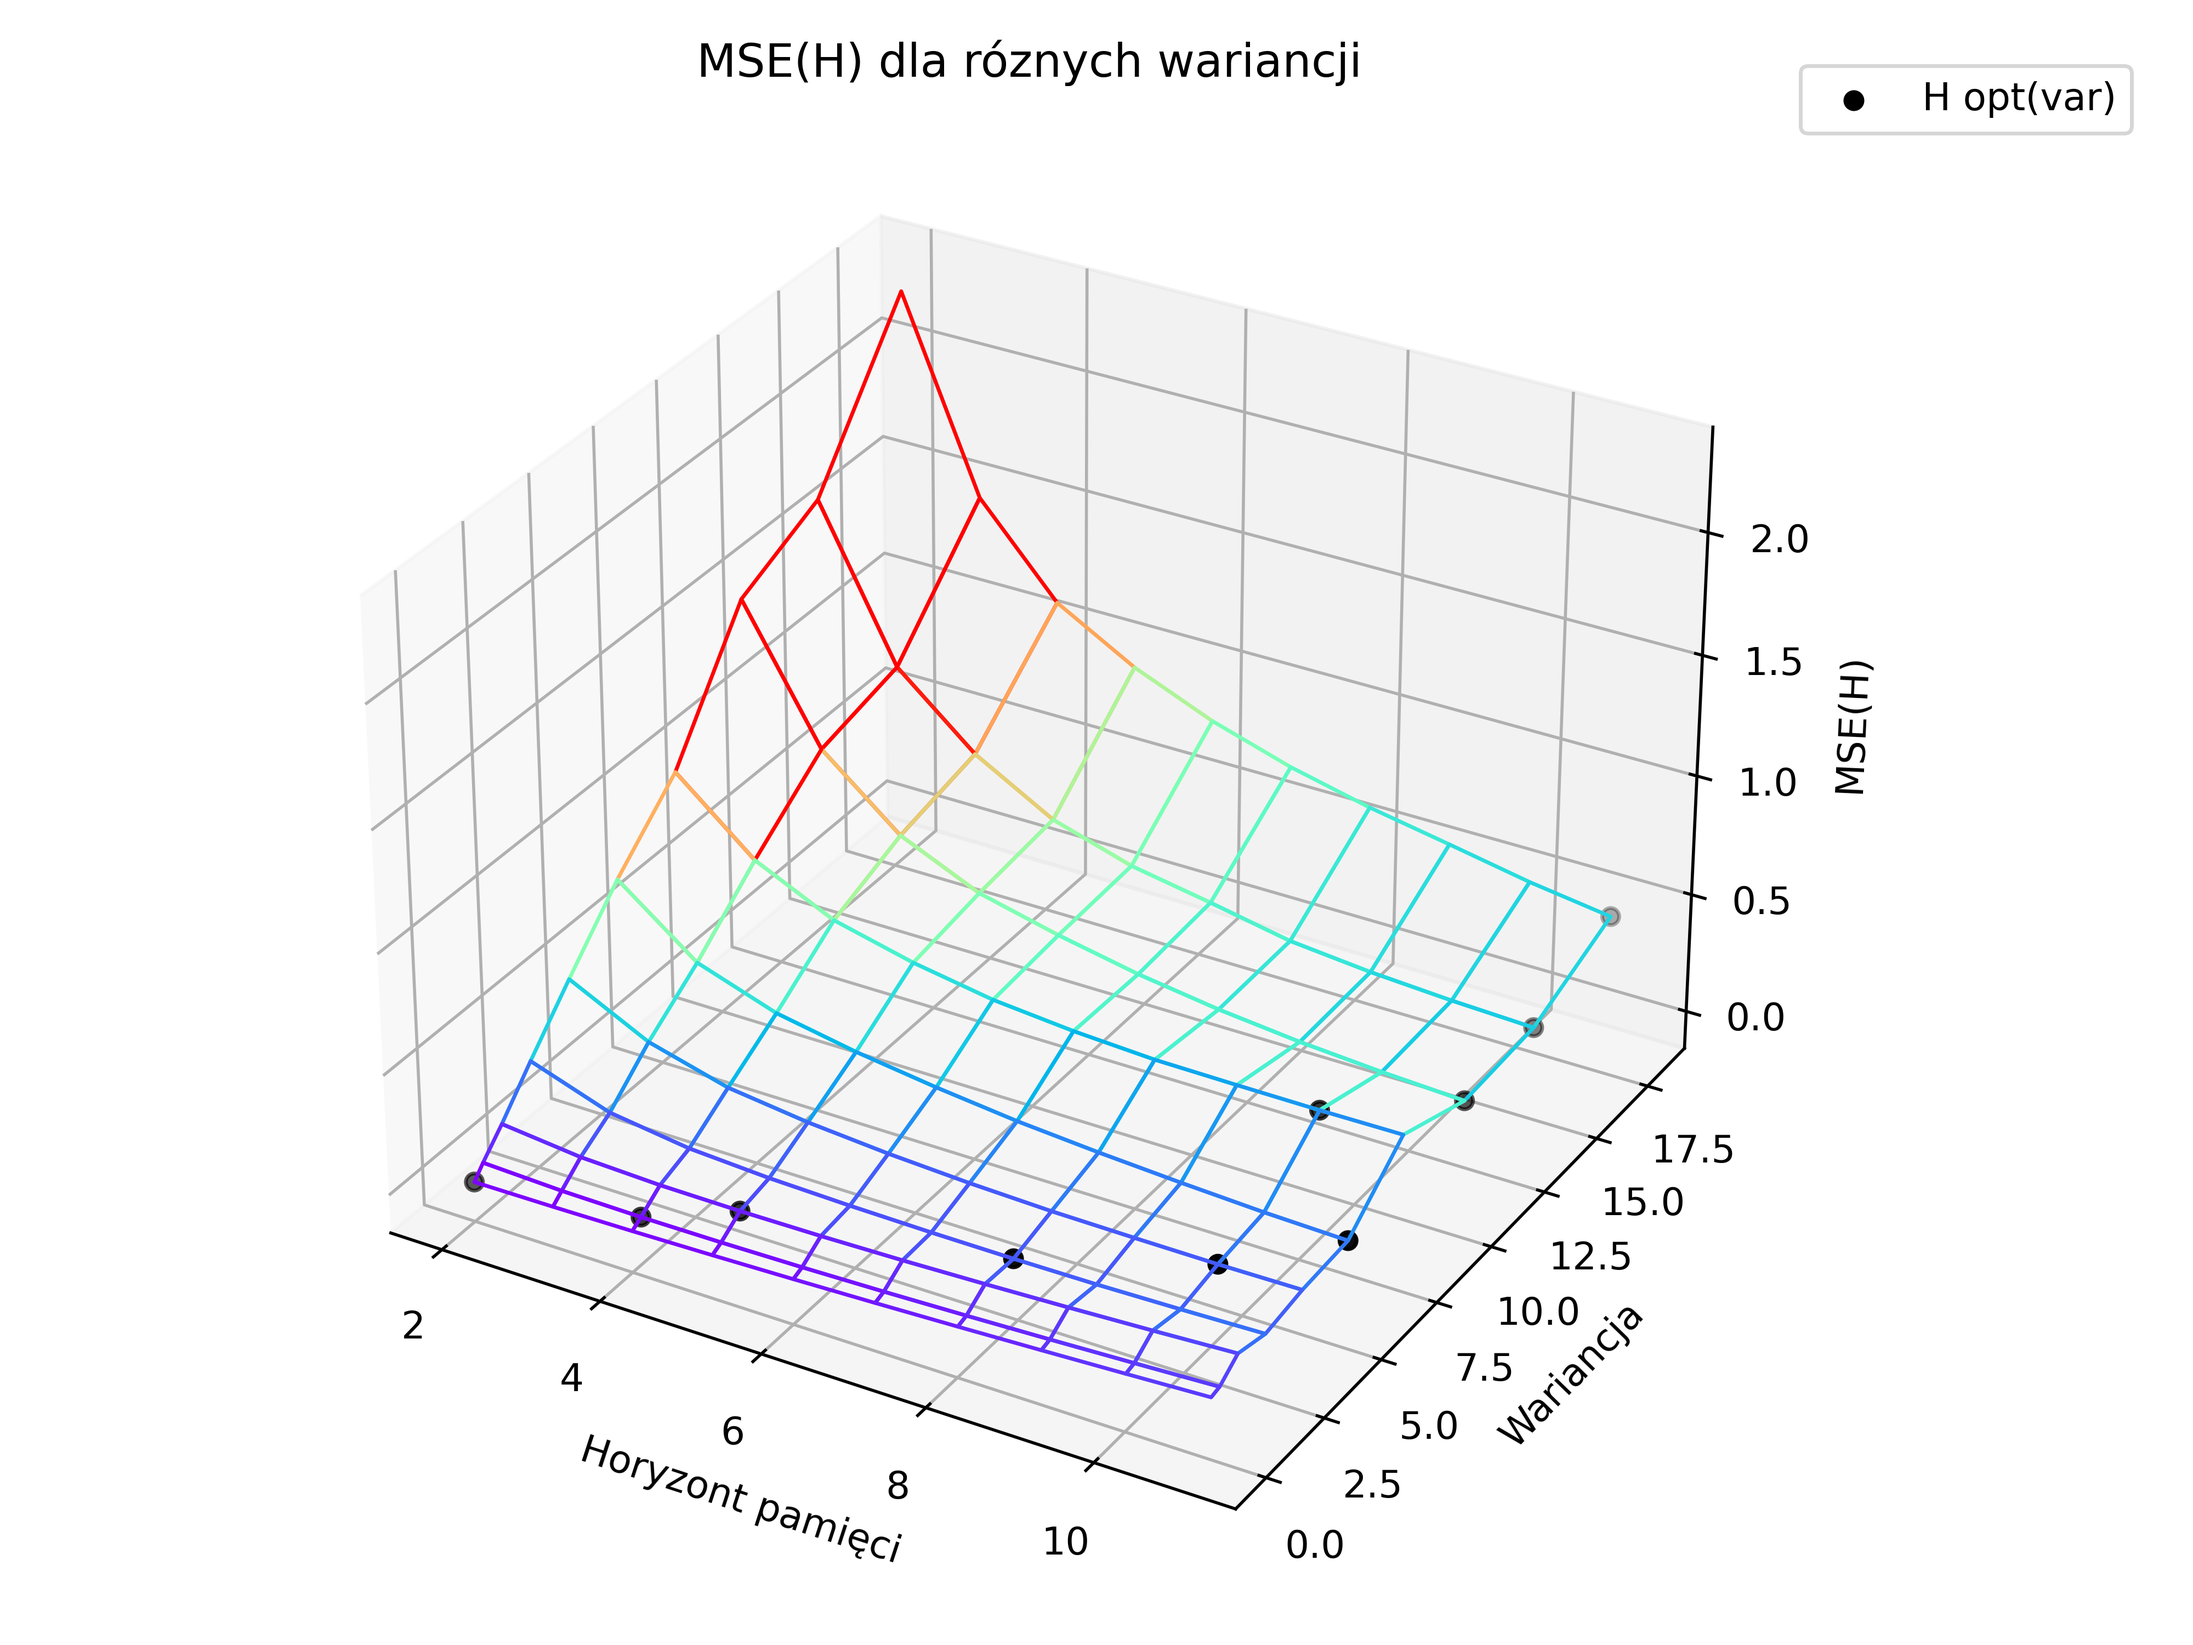
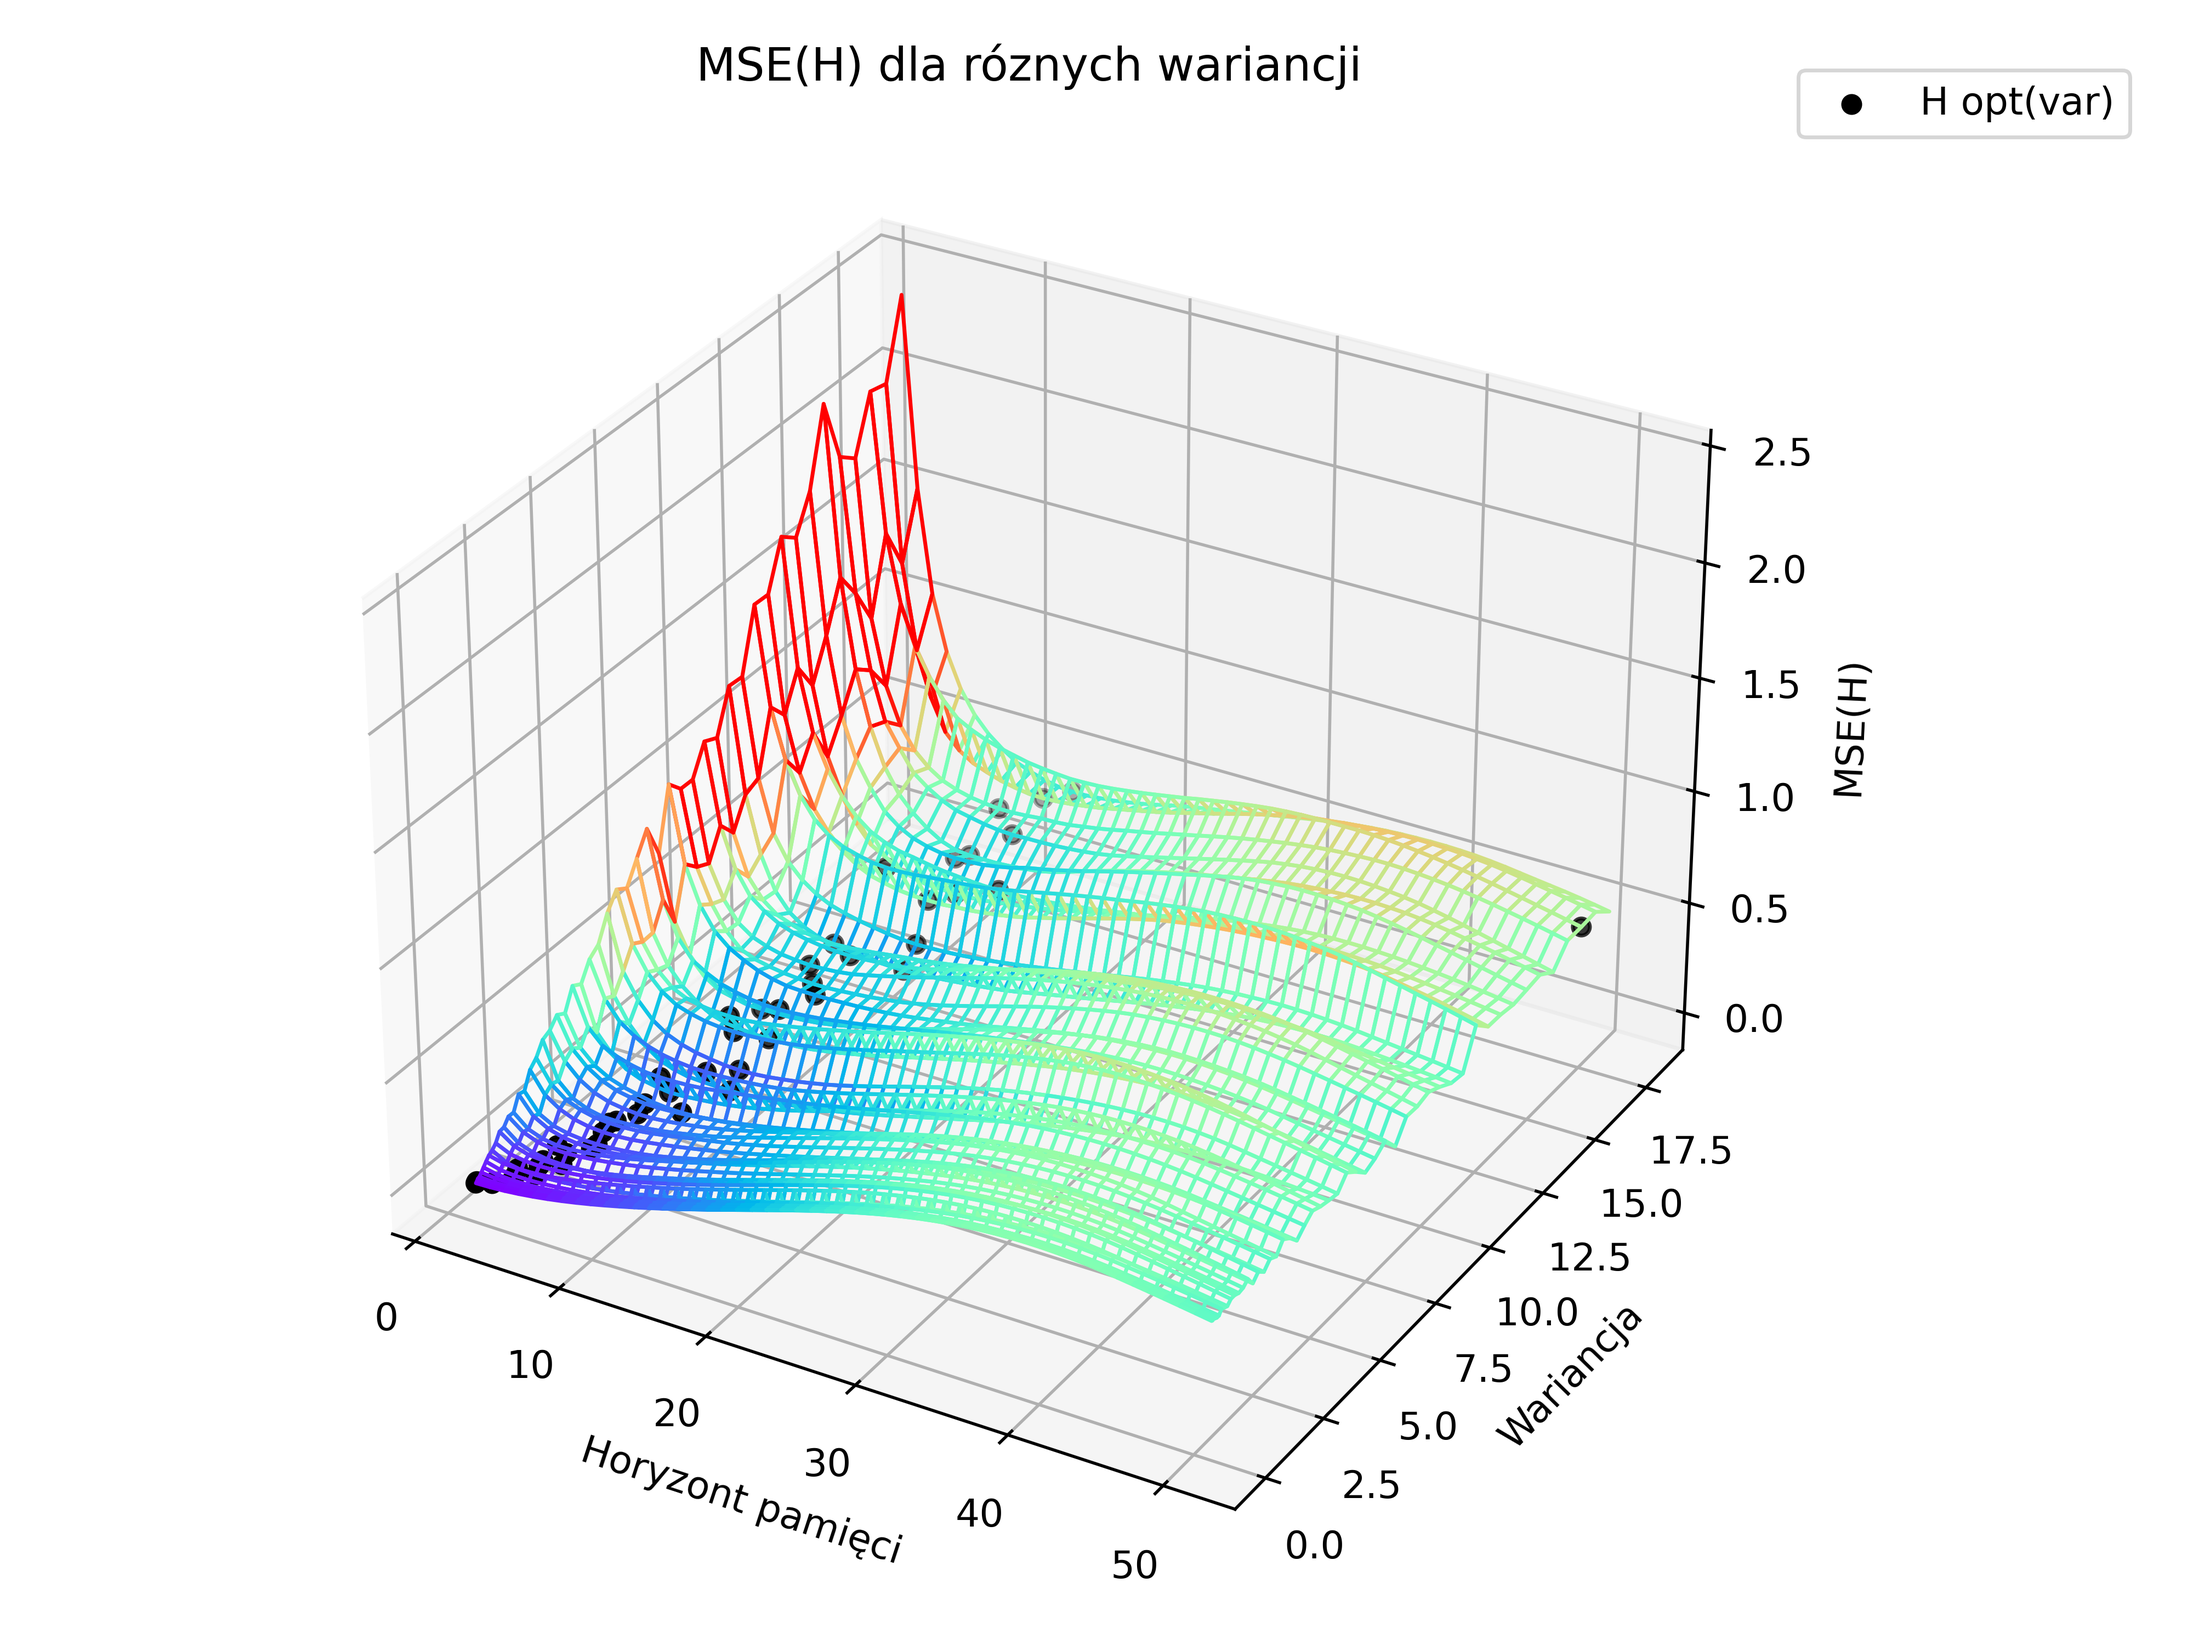
plot update

diff --git a/adaptacyjne/projekt1/wave.py b/adaptacyjne/projekt1/wave.py
@@ -21,7 +21,6 @@ def calculate(N, max, triangular_signal):
         # do zmiany?
         if current_c == max / 10:
             tswn_optimal = triangular_signal_with_noise
-
         for current_h in range(len(H)):
             local_Q_sum = np.zeros(N)
             for i in range(N):
@@ -30,7 +29,8 @@ def calculate(N, max, triangular_signal):
                         local_Q_sum[i] += triangular_signal_with_noise[i-h] 
             estimated_Q = np.zeros(N)
             estimated_Q =[ local_Q_sum[i]/(H[current_h]) if (i > H[current_h]) else triangular_signal[i]  for i in range(N)]
-
+            if current_c == max/10 and current_h == max/10:
+                est_Q = estimated_Q
             for i in range(H[current_h], N): # from H till N
                 MSE[current_c][current_h] += (estimated_Q[i] - triangular_signal[i])**2
             MSE[current_c][current_h] = MSE[current_c][current_h]/(N - H[current_h])
@@ -38,9 +38,9 @@ def calculate(N, max, triangular_signal):
             if MSE[current_c][current_h] < min_MSE:
                 MSE_opt[current_c] = MSE[current_c][current_h]
                 min_MSE = MSE_opt[current_c]
-                H_opt[current_c] = H[current_h]
-                  
-    return H, MSE, var, H_opt, MSE_opt, tswn_optimal
+                H_opt[current_c] = H[current_h]      
+        
+    return H, MSE, var, H_opt, MSE_opt, tswn_optimal, est_Q
     
 def main():
     # triangular function parameters 
@@ -55,21 +55,30 @@ def main():
     # triangular_signal = amplitude * (2 * np.abs(2 * (t * frequency - np.floor(t * frequency + 0.5))) - 1)
     triangular_signal = ((4 * amplitude) / period) * np.abs(((t - (period * 0.25))%period) - (period * 0.5)) - amplitude
     # amount of samples (H and var)
-    max = 10
+    max = 50
     # calculating MSE, H and var
-    H, MSE, var, H_opt, MSE_opt, tswn_optimal = calculate(N, max, triangular_signal)
+    H, MSE, var, H_opt, MSE_opt, tswn_optimal, estimated_Q = calculate(N, max, triangular_signal)
     # creating plots
     # signal w/ and wo/ noise
     fig = plt.figure(figsize=(10, 8))
     ax = fig.add_subplot(111) # TE NAZWY SĄ DO ZMIANY !
     # TRZEBABY JESZCZE POKAZAĆ TEN ESTYMOWANY SYGNAŁ(?)
     ax.plot(t, triangular_signal, c='r', label="Fala trójkątna") 
-    ax.scatter(t, tswn_optimal, c='b', marker='o', s=10, label="Zaszumiona fala trójkątna")
+    ax.plot(t, estimated_Q, c='b', marker='o', label="Fala estymowana")
+    ax.scatter(t, tswn_optimal, c='g', marker='o', label="Zaszumiona fala trójkątna")
     ax.set_title(f'Fala trójkątna')
     ax.legend(loc='upper right')
     ax.set_xlabel('Czas (s)')
     ax.set_ylabel('Amplituda')
     # ax.set_ylim(-amplitude - 0.5, amplitude + 0.5)
+    # fig_est = plt.figure(figsize=(10,8))
+    # ax_est = fig_est.add_subplot(111)
+    # ax_est.plot(t, triangular_signal, c='r', label="Fala trójkątna") 
+    # ax_est.plot(t, estimated_Q, c='b', marker='o', label="Fala estymowana")
+    # ax_est.set_title(f'Fala trójkątna')
+    # ax_est.legend(loc='upper right')
+    # ax_est.set_xlabel('Czas (s)')
+    # ax_est.set_ylabel('Amplituda')
 
     # MSE(H) and MSE(var) plots
     fig_MSE, (ax_H, ax_var) = plt.subplots(1, 2, figsize=(12, 6))
@@ -86,7 +95,7 @@ def main():
     ax_var.set_xlabel('Wariancja')
     ax_var.set_ylabel('MSE')
 
-    # Var(H opt) - CZY TO NIE POWINNO BYĆ NA ODWRÓT Hopt(var) ??
+    # Var(H opt) - CZY TO NIE POWINNO BYĆ NA ODWRÓT Hopt(var) ?? 
     fig_opt = plt.figure(figsize=(8, 6))
     ax_opt = fig_opt.add_subplot(111)
     ax_opt.scatter(var, H_opt,  c='r') # ZAMIENIŁAM TUTAJ KOLEJNOŚĆ!!
@@ -118,6 +127,7 @@ def main():
 
     plt.tight_layout()
     fig.savefig(os.path.join(os.path.dirname(__file__), "images", "Wykres_szumu.png"), dpi=500)
+    # fig_est.savefig(os.path.join(os.path.dirname(__file__), "images", "Wykres_estymowane.png"), dpi=500)
     fig_3d.savefig(os.path.join(os.path.dirname(__file__), "images", "Wykres_3d.png"), dpi=500)
     fig_opt.savefig(os.path.join(os.path.dirname(__file__), "images", "Wykres_opt.png"), dpi=500)
     fig_MSE.savefig(os.path.join(os.path.dirname(__file__), "images", "Wykres_MSE.png"), dpi=500)
